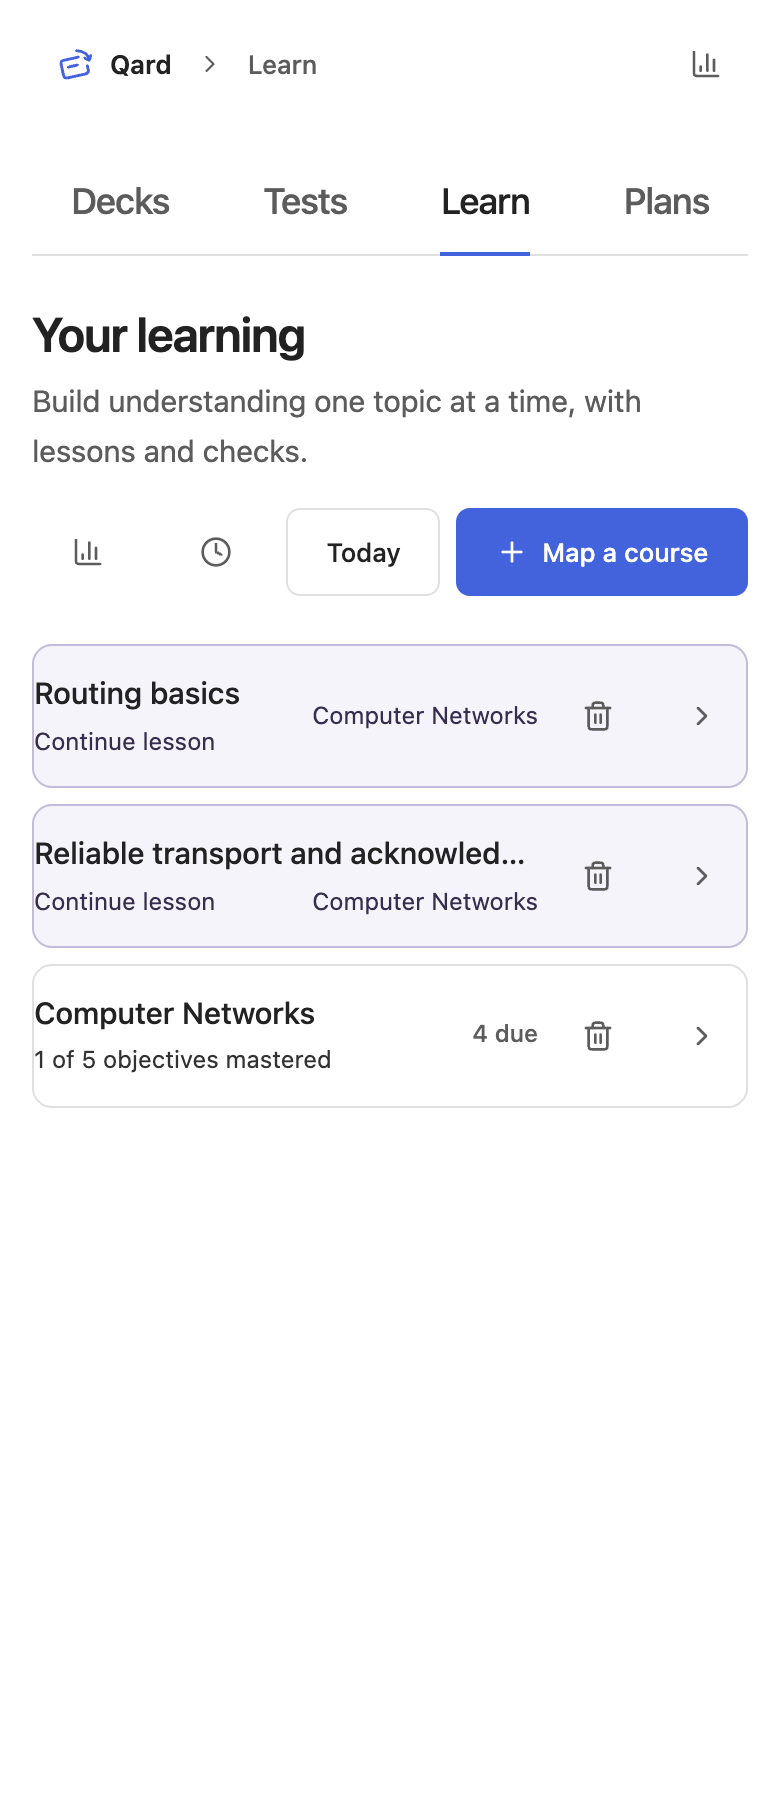
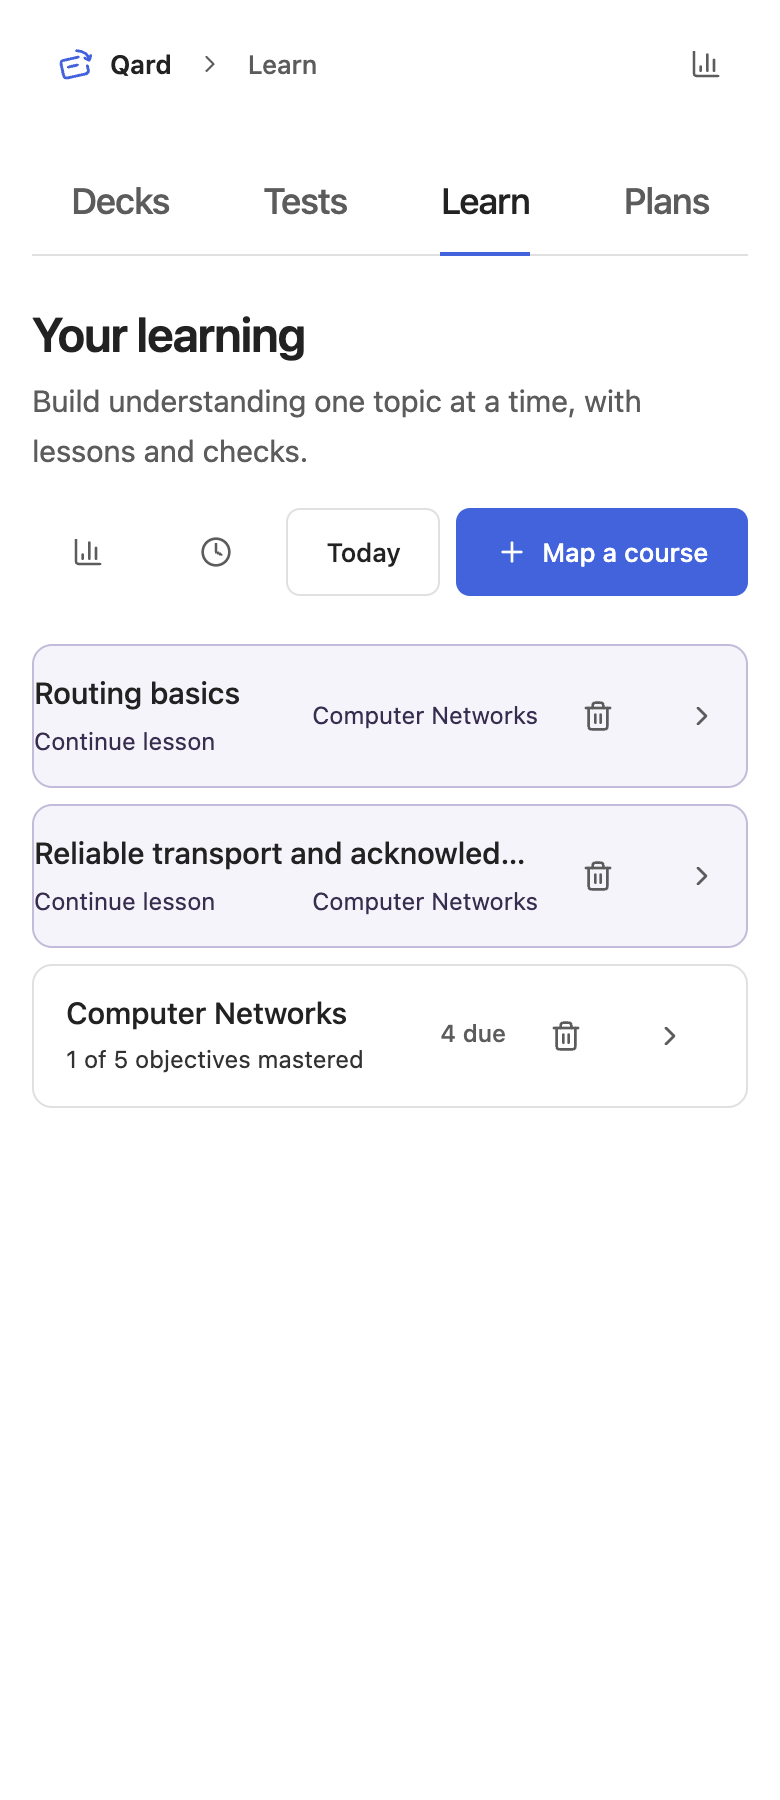
Refresh aligned session plot and padded course row comparisons

Changed region(s): [[0.0308, 0.56, 0.4615, 0.5911], [0.5538, 0.56, 0.6769, 0.5911], [0.7077, 0.56, 0.8, 0.5911]]

diff --git a/docs/images/ui-main-latest/audit-report.md b/docs/images/ui-main-latest/audit-report.md
@@ -1,3 +1,17 @@
+# Session outcome alignment and course padding verification
+
+Latest source `0d823c2735d82c4c04a22a05d8248d218deba12a`. Screenshot baseline remains upstream main `70056821914f0dae910b52a20f1fa3329b04d0ac`.
+
+- Plot samples and summary cells use five equal-width columns in the same order: Skipped, Again, Hard, Good, Easy. Every point is centered above its label. The curve retains full-width edges.
+- Skipped has its own muted point and participates in the plot scale. Percentages retain the shared outcome denominator. Median calculation still uses rated answers only and is positioned in the shifted rating columns. Direction labels describe the rated region.
+- Skipped-only and unrated Cram outcomes show their real skipped count and zero rated counts without inventing a median. Empty sessions still omit the chart.
+- Course rows restore the shared horizontal row inset. The flush-padding override now applies only to other Learn summary rows. Neutral course styling and Today alignment remain intact.
+- All 40 browser cases passed across 320, 390, 640, 641, 768, 1100 and 1440px panes, plus a narrow pane in a wide window, in both themes. They verify point/label alignment, five category counts, peak scale, full-width path, median placement/absence, repeat-tooltip resize recovery, action layout and overflow, course padding and neutral styling, and preserved lesson alignment.
+- Full check passed with 767 tests in 95 suites, formatting, typecheck, source lint, CSS lint, production build and release verification. Existing chart/skipped-session cases now cover the fifth point and skipped-only plot; no test cases were added.
+- Four existing main-to-latest pairs were refreshed; gallery remains 52 pairs. The isolated Obsidian build was refreshed and current working plugin/global Obsidian files were preserved using before/after hashes.
+
+## Prior verification
+
 # Learning rows and objective metadata verification
 
 Latest source `f6372bb5c11e89455a18394b9c84fd47c19ce284`. Screenshot baseline remains upstream main `70056821914f0dae910b52a20f1fa3329b04d0ac`.
